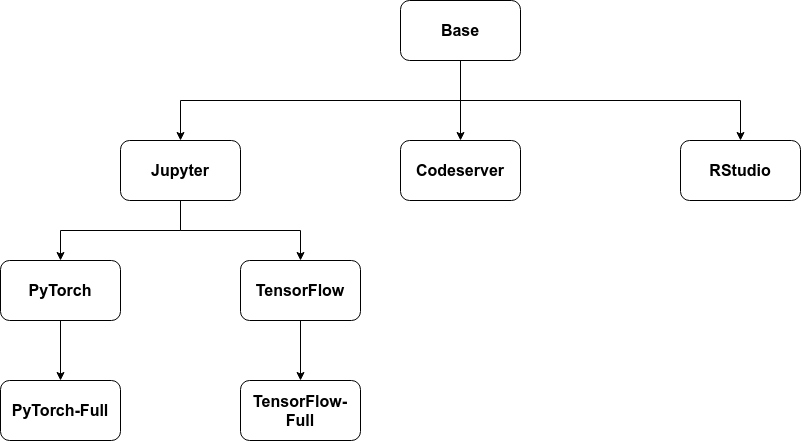
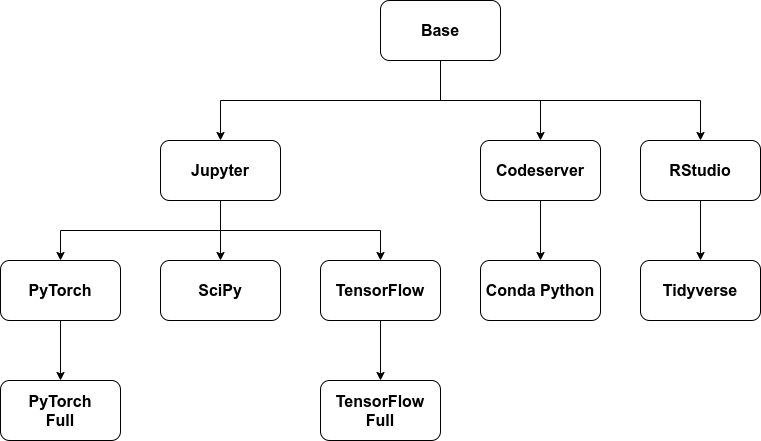
review: add more suggested changes and update flow chart

diff --git a/components/example-notebook-servers/README.md b/components/example-notebook-servers/README.md
@@ -12,10 +12,14 @@ these images, contributions and issue reports are greatly appreciated.
 
 This directory contains Dockerfiles that are intended to show users how to
 create images for various types of Notebook Servers that can run on Kubeflow.
-There is a common base images that starts from Ubuntu 20.04, adds some
-dependencies and common utilities from APT, installs `kubectl`, creates the
-user account for the downstream images and adds the
-[S6-overlay](https://github.com/just-containers/s6-overlay) for the init system.
+There is a common base images that starts from Ubuntu 20.04 and provides the
+following layers:
+
+- dependencies and common utilities from APT
+- Install `kubectl`
+- Creates the `jovyan` user account
+- adds the [S6-overlay](https://github.com/just-containers/s6-overlay) init system
+
 From this base image, images for Jupyter, RStudio and Visual Studio Code
 (through [code-server]([https://github.com/cdr/code-server)) are created.
 From the Jupyter image, images are created that show users how to install
@@ -36,7 +40,7 @@ init system and including [Conda](https://github.com/conda-forge/miniforge).
 ### Installing packages
 
 The most common customization to Notebook Server images will be to install
-a selection of packages specific that will be needed in the Notebook Server.
+a selection of packages for the specific of a given the Notebook Server.
 Users can install packages in a running Notebook Server using `pip install ...`
 or `conda install ...`. However, packages installed in this manner will not
 persist if the Notebook Server is stopped or the Pod is restarted.
@@ -44,29 +48,29 @@ While it is possible to install Python packages in the user's home directory
 by using `pip install --user ...`, this can cause unexpected behaviour if the
 workspace volume is later used in a different Notebook Server, as the packages
 present in the home directory might be used rather than the ones present in the
-Notebook Server's image. For this reason it is recommended to create custom
-images if persistance of the installed packages is wanted. An example of such
+Notebook Server's image. We recommended to creating custom images if the
+installed packages need to be persistant. An example of such
 a Dockerfile can be seen (POINT TO A DOCKERFILE THAT USES PIP AND ONE THAT USES CONDA).
-If APT dependencies are required need to be installed, this must be done with by
+If APT dependencies need to be installed, this must be done with by
 creating a custom Notebook Server image as the user in the provided images does
-not have `sudo` privileges. To do so, create a Dockerfile and choose a given
-base image. Next, change to the root user using `USER root` and make any
-changes that require root privileges. Once this is done, switch back to the
-regular user with `USER $NB_UID` and, if needed, install the wanted packages
-using Pip or Conda.
+not have `sudo` privileges. An example Dockerfile that changes to the `root` user to
+install packages can be found [here](LINK TO RSTUDIO TIDYVERSE DOCKERFILE).
+Note, genreally we recommend installing Pip or Conda packages as the `$NB_USER` and
+using the `root` user for APT packages. However, due to our build process using
+Kaniko this was note possible for the example Dockerfile mentioned previously.
 
 ### Custom startup scripts and extra services (Advanced)
 
 Some users might require custom scripts to run during the startup of the
 Notebook Server container, or advanced users might want to add additional
 services that run inside the container (for example: an Apache or NGINX web server).
-To make this easy, the [S6-overlay](https://github.com/just-containers/s6-overlay)
-is used in the provided images.
+To make this easy, we use the [S6-overlay](https://github.com/just-containers/s6-overlay)
+in the provided images.
 
 #### Background
 
-It is often considered best practice to have only a single process run inside
-a container. A problem that can occur when using a process supervisor inside a
+Running only a single process run inside a container is often considered best
+practice. A problem that can occur when using a process supervisor inside a
 container, is that the process supervisor will restart failed services and thus
 the container will never die. This is where the
 [S6-overlay](https://github.com/just-containers/s6-overlay) differs from other
@@ -85,7 +89,7 @@ can be found [here](POINT TO RSTUDIO INIT SCRIPT). In this script, the
 `with-contenv` helper is used so that the container environment variables are
 available to the script. This script then exports the container environment
 variables to the R site environment so that they are available within RStudio.
-Without these environment variable, `kubectl` would not work in RStudio as
+Without these environment variables `kubectl` would not work in RStudio, as
 `kubectl` relies on these environment variables to get the KUBECONFIG for the
 service account of the Notebook Server Pod. Scripts in the `/etc/cont-init.d/`
 directory are executed in order.
@@ -94,7 +98,7 @@ directory are executed in order.
 
 The [S6-overlay](https://github.com/just-containers/s6-overlay) manages the
 services that are started by the scripts present in the `/etc/services.d/`
-directory. Each service should have it's own folder in `/etc/services.d/` and
+directory. Each service requires it's own folder in `/etc/services.d/` and
 contain a script named `run` and can optionally contain a finishing script
 called `finish`. For example, the provided Jupyter example images contain the
 file `/etc/services.d/jupyterlab/run` (LINK TO FILE) that the
@@ -108,7 +112,7 @@ The example Notebook Server images that are provided here execute the
 [S6-overlay](https://github.com/just-containers/s6-overlay) as user `$NB_USER`
 and not as `root`. This is done so that none of the processes in the container
 are executed as `root` user. As such, any files or scripts related to the
-[S6-overlay](https://github.com/just-containers/s6-overlay) must be owner by
+[S6-overlay](https://github.com/just-containers/s6-overlay) must be owned by
 user `$NB_USER`. To copy startup or service scripts into the container image
 you can use `--chown` with the `COPY` command in the Dockerfile
 (LINK TO A PLACE WHERE THIS IS USED). As the
